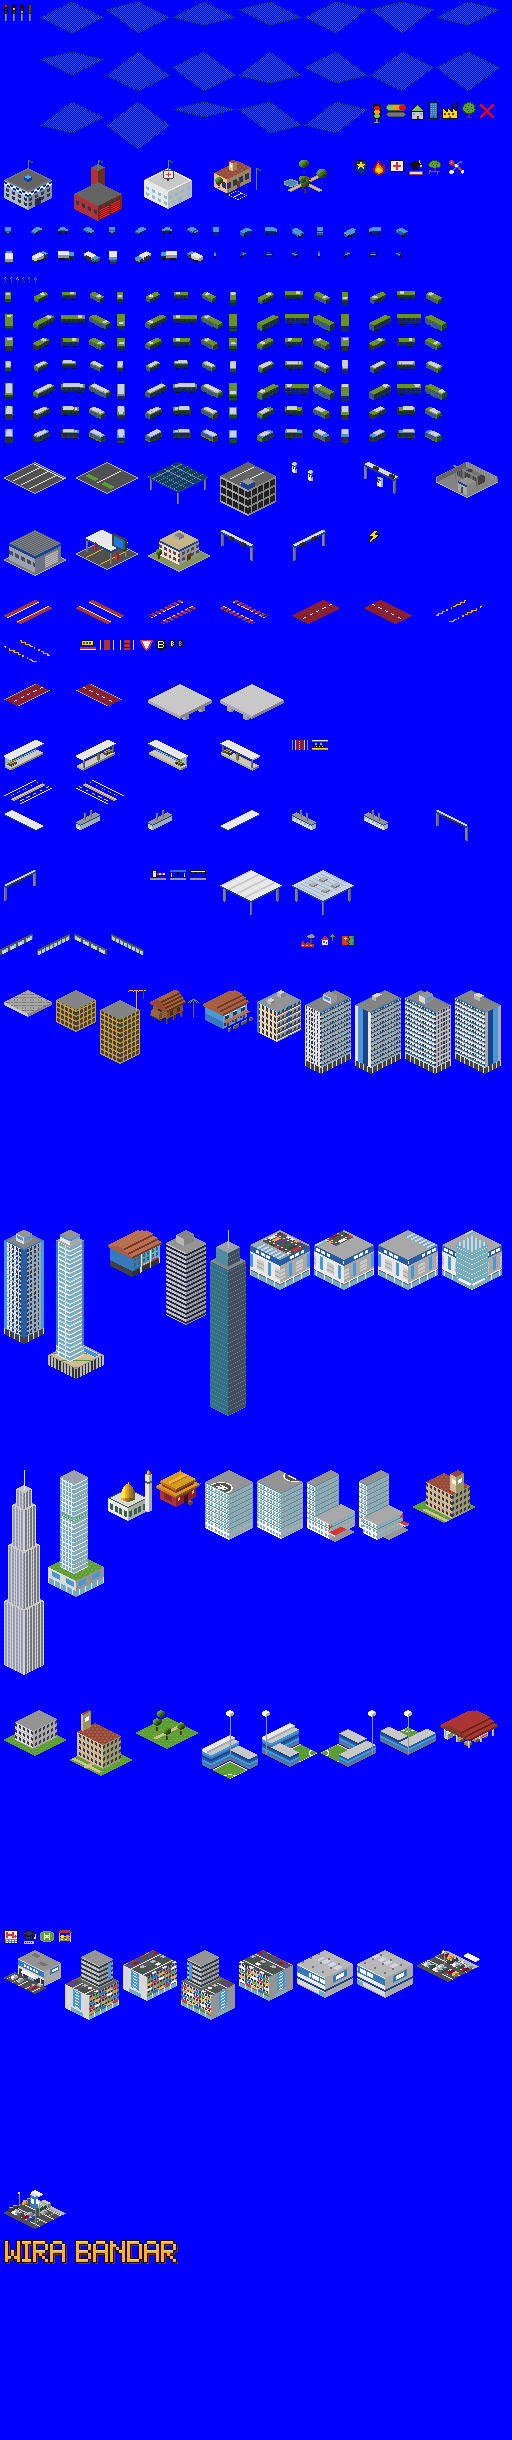
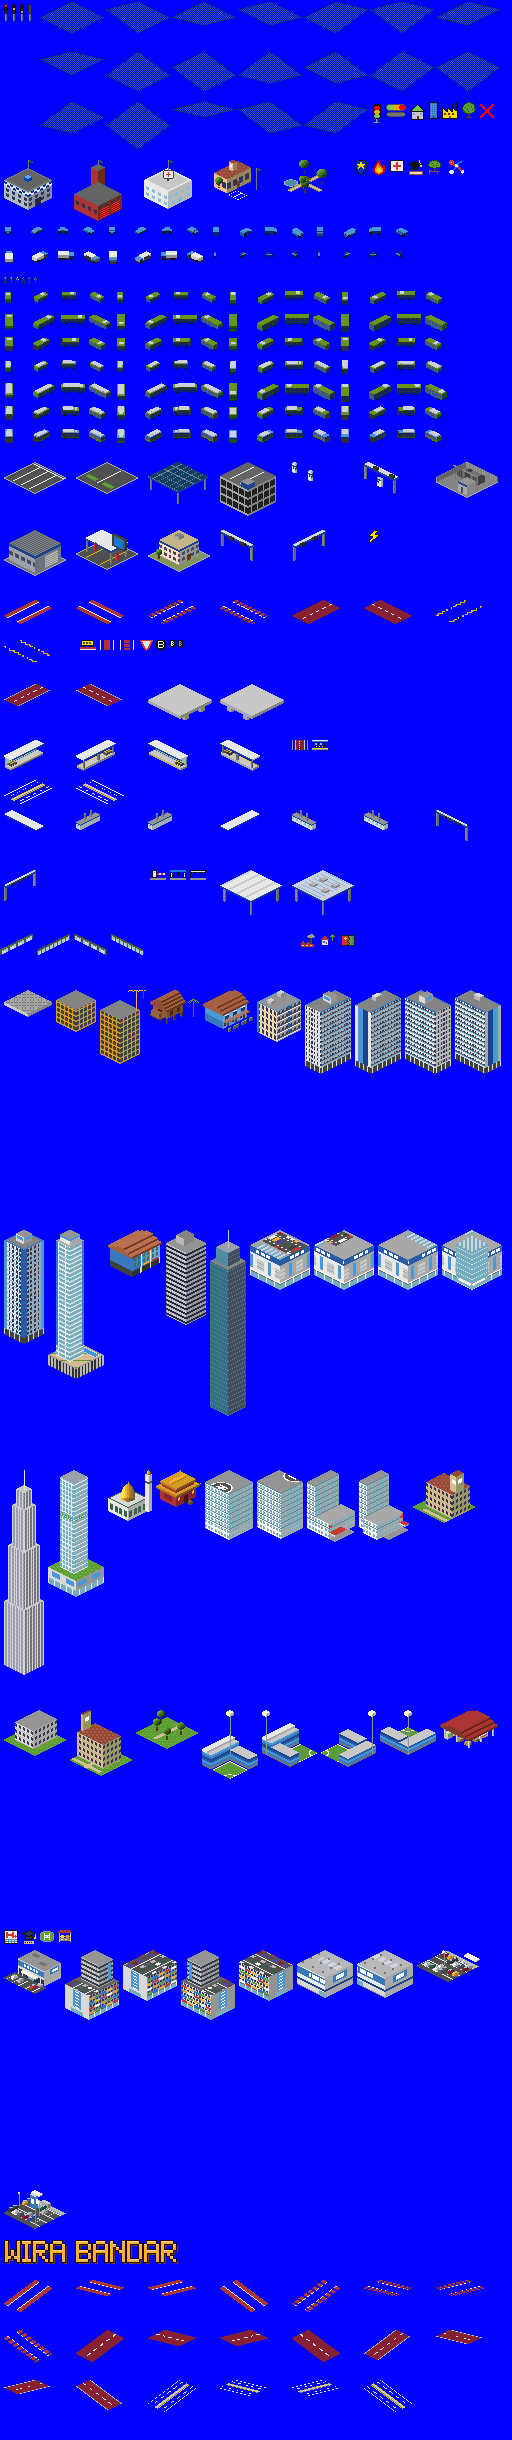
Fix: bus lanes and other road markings on slopes; tram tracks over them
- Bus lanes (all day and peak hours), bus-only roads, kerbed busways and an
  expressway's lanes and barrier were drawn on flat road only, so on a road
  up a slope they didn't show at all, though they worked. They now have
  sloped versions too: 20 new sprites (301-320 of the city graphics), one
  for each marking on SLOPE_NE, SLOPE_SE, SLOPE_SW and SLOPE_NW, drawn by
  make_city_sprites.py on the tile's sloped plane.
- The default tram track (and most tram sets') runs in the two outer lanes,
  where the bus lane paint goes, and the paint was drawn over it: tram tracks
  vanished under a bus lane, a busway, a bus-only road or expressway
  markings, on roads and through drive-through stops. The track is now drawn
  again over the markings.

Checked with a test AI on a mountainous map with a test tram NewGRF: an
all-day lane, a peak lane and a busway on sloped town roads, the same over
tram tracks (sloped and flat), and a bus-only road and an expressway up a
slope all show, with the tram rails over the paint.

diff --git a/src/bus_priority.cpp b/src/bus_priority.cpp
@@ -310,46 +310,85 @@ enum BusPrioritySprite : uint8_t {
 };
 
 /**
- * Draw bus lanes and the red of bus-only roads on a plain road tile; straight, flat roads only.
- * @param ti The tile, after its ground and road were drawn.
+ * The sprite of a marking on a straight road, flat or up a slope along it.
+ * @param marking The marking.
+ * @param flat_x Its sprite on a flat road along X; along Y follows.
+ * @param tileh The slope of the road, after its foundation.
+ * @param bits The road's pieces.
+ * @return The sprite, or 0 if the road isn't straight or doesn't run up the slope.
  */
-void DrawBusPriorityRoad(const TileInfo *ti)
+SpriteID GetRoadMarkingSprite(RoadMarking marking, SpriteID flat_x, Slope tileh, RoadBits bits)
 {
-	if (ti->tileh != SLOPE_FLAT || !IsNormalRoad(ti->tile)) return;
-	RoadBits bits = GetRoadBits(ti->tile, RoadTramType::Road);
-	if (bits != ROAD_X && bits != ROAD_Y) return;
-	const uint axis = bits == ROAD_X ? 0 : 1;
-
-	if (IsBusOnlyRoad(ti->tile)) {
-		DrawGroundSprite(SPR_BUS_PRIORITY_BASE + BPS_BUS_ROAD_X + axis, PAL_NONE);
-		return;
-	}
-	switch (GetBusLane(ti->tile)) {
-		case BusLane::AllDay: DrawGroundSprite(SPR_BUS_PRIORITY_BASE + BPS_LANE_X + axis, PAL_NONE); break;
-		case BusLane::Peak: DrawGroundSprite(SPR_BUS_PRIORITY_BASE + BPS_PEAK_X + axis, PAL_NONE); break;
-		case BusLane::Busway: DrawGroundSprite(SPR_BUSWAY_X + axis, PAL_NONE); break;
-		default: break;
+	if (bits != ROAD_X && bits != ROAD_Y) return 0;
+	const bool along_x = bits == ROAD_X;
+	const SpriteID sloped = SPR_SLOPED_ROAD_MARKINGS + to_underlying(marking) * 4;
+	switch (tileh) {
+		case SLOPE_FLAT: return flat_x + (along_x ? 0 : 1);
+		/* Roads along X climb to the north-east or the south-west, along Y to the south-east or the north-west. */
+		case SLOPE_NE: return along_x ? sloped + 0 : 0;
+		case SLOPE_SE: return along_x ? 0 : sloped + 1;
+		case SLOPE_SW: return along_x ? sloped + 2 : 0;
+		case SLOPE_NW: return along_x ? 0 : sloped + 3;
+		default: return 0;
 	}
 }
 
 /**
- * Draw bus lanes and give-way markings on a drive-through bus stop.
- * @param ti The stop tile, after its ground and road were drawn.
+ * The marking of a tile's bus lane, or of its bus-only road.
+ * @param tile The tile.
+ * @param[out] flat_x The marking's sprite on a flat road along X.
+ * @return The marking, or std::nullopt if it has none.
  */
-void DrawBusPriorityStop(const TileInfo *ti)
+static std::optional<RoadMarking> GetBusPriorityMarking(TileIndex tile, SpriteID &flat_x)
 {
-	if (ti->tileh != SLOPE_FLAT || !IsDriveThroughStopTile(ti->tile)) return;
+	if (IsBusOnlyRoad(tile)) {
+		flat_x = SPR_BUS_PRIORITY_BASE + BPS_BUS_ROAD_X;
+		return RoadMarking::BusOnlyRoad;
+	}
+	switch (GetBusLane(tile)) {
+		case BusLane::AllDay: flat_x = SPR_BUS_PRIORITY_BASE + BPS_LANE_X; return RoadMarking::BusLane;
+		case BusLane::Peak: flat_x = SPR_BUS_PRIORITY_BASE + BPS_PEAK_X; return RoadMarking::PeakBusLane;
+		case BusLane::Busway: flat_x = SPR_BUSWAY_X; return RoadMarking::Busway;
+		default: return std::nullopt;
+	}
+}
+
+/**
+ * Draw bus lanes and the red of bus-only roads on a plain road tile: straight roads, flat or up a slope.
+ * @param ti The tile, after its ground and road were drawn.
+ * @return True if a marking was drawn, over any tram track there.
+ */
+bool DrawBusPriorityRoad(const TileInfo *ti)
+{
+	if (!IsNormalRoad(ti->tile)) return false;
+	SpriteID flat_x = 0;
+	const std::optional<RoadMarking> marking = GetBusPriorityMarking(ti->tile, flat_x);
+	if (!marking.has_value()) return false;
+	const SpriteID sprite = GetRoadMarkingSprite(*marking, flat_x, ti->tileh, GetRoadBits(ti->tile, RoadTramType::Road));
+	if (sprite == 0) return false;
+	DrawGroundSprite(sprite, PAL_NONE);
+	return true;
+}
+
+/**
+ * Draw bus lanes and give-way markings on a drive-through bus stop, which is always flat.
+ * @param ti The stop tile, after its ground and road were drawn.
+ * @return True if a marking was drawn, over any tram track there.
+ */
+bool DrawBusPriorityStop(const TileInfo *ti)
+{
+	if (ti->tileh != SLOPE_FLAT || !IsDriveThroughStopTile(ti->tile)) return false;
 	const uint axis = GetDriveThroughStopAxis(ti->tile) == Axis::X ? 0 : 1;
 
-	if (IsBusOnlyRoad(ti->tile)) {
-		DrawGroundSprite(SPR_BUS_PRIORITY_BASE + BPS_BUS_ROAD_X + axis, PAL_NONE);
-	} else {
-		switch (GetBusLane(ti->tile)) {
-			case BusLane::AllDay: DrawGroundSprite(SPR_BUS_PRIORITY_BASE + BPS_LANE_X + axis, PAL_NONE); break;
-			case BusLane::Peak: DrawGroundSprite(SPR_BUS_PRIORITY_BASE + BPS_PEAK_X + axis, PAL_NONE); break;
-			case BusLane::Busway: DrawGroundSprite(SPR_BUSWAY_X + axis, PAL_NONE); break;
-			default: break;
-		}
+	bool drawn = false;
+	SpriteID flat_x = 0;
+	if (GetBusPriorityMarking(ti->tile, flat_x).has_value()) {
+		DrawGroundSprite(flat_x + axis, PAL_NONE);
+		drawn = true;
 	}
-	if (HasGiveWayStop(ti->tile)) DrawGroundSprite(SPR_BUS_PRIORITY_BASE + BPS_GIVE_WAY_X + axis, PAL_NONE);
+	if (HasGiveWayStop(ti->tile)) {
+		DrawGroundSprite(SPR_BUS_PRIORITY_BASE + BPS_GIVE_WAY_X + axis, PAL_NONE);
+		drawn = true;
+	}
+	return drawn;
 }

diff --git a/media/baseset/openttd/make_city_sprites.py b/media/baseset/openttd/make_city_sprites.py
@@ -365,6 +365,21 @@ class Building:
                 if x0 <= x < x1 and y0 <= y < y1:
                     self.set(px_, py, fn(x, y))
 
+    def ground_sloped(self, fn, slope):
+        """Paint the ground of a tile with two neighbouring corners raised one level
+        (SLOPE_NE, SLOPE_SE, SLOPE_SW or SLOPE_NW), where fn(x, y) returns a colour."""
+        # Height z = a * x + b * y + c over the tile; the N corner is (0, 0), E (0, 16), S (16, 16), W (16, 0).
+        a, b, c = {0x0C: (-0.5, 0, 8), 0x06: (0, 0.5, 0), 0x03: (0.5, 0, 0), 0x09: (0, -0.5, 8)}[slope]
+        for py in range(-10, 34):
+            for px_ in range(0, 65):
+                cx, cy = px_ + 0.5, py + 0.5
+                d = (cx - 32) / 2
+                # On screen cx = 32 + 2 * (y - x) and cy = x + y - z.
+                x = (cy - d * (1 - b) + c) / (2 - a - b)
+                y = x + d
+                if 0 <= x < 16 and 0 <= y < 16:
+                    self.set(px_, py, fn(x, y))
+
     def pole(self, x, y, z0, z1, flag=True):
         """A flag pole with a flag in company colours on top."""
         sx, sy = round(32 + 2 * (y - x)), round(x + y)
@@ -2238,6 +2253,25 @@ icon(4, 2240, logo_rows, {'F': rgb_index((252, 176, 48)), 'H': rgb_index((252, 2
                           'S': rgb_index((112, 72, 24))}, "logo wira bandar")
 
 assert len(sprites) == 301, len(sprites)
+
+# Road markings on roads up a slope: all-day bus lane, peak bus lane, bus-only road, kerbed
+# busway, expressway; each on SLOPE_NE, SLOPE_SE, SLOPE_SW, SLOPE_NW (roads along X climb
+# to the north-east or south-west, along Y to the south-east or north-west).
+SLOPED_MARKINGS = [
+    (lambda axis: lane_fn(axis, False), "bus lane"),
+    (lambda axis: lane_fn(axis, True), "peak bus lane"),
+    (bus_road_fn, "bus-only road"),
+    (busway_fn, "kerbed busway"),
+    (expressway_fn, "expressway"),
+]
+for m, (make_fn, name) in enumerate(SLOPED_MARKINGS):
+    for s, (slope, axis, slope_name) in enumerate(((0x0C, 'x', "NE"), (0x06, 'y', "SE"), (0x03, 'x', "SW"), (0x09, 'y', "NW"))):
+        k = m * 4 + s
+        b = Building()
+        b.ground_sloped(make_fn(axis), slope)
+        b.emit(4 + (k % 7) * 72, 2280 + (k // 7) * 50, f"{name} on slope {slope_name}")
+
+assert len(sprites) == 321, len(sprites)
 sheet.save(f"{SRC}/city.png", optimize=True)
 
 header = """// This file is part of OpenTTD.
@@ -2282,6 +2316,8 @@ header = """// This file is part of OpenTTD.
 //            hypermarket (four parts: (0,0), (0,1), (1,0), (1,1))
 //   299:   icon: map of states
 //   300:   the Wira Bandar wordmark of the main menu
+//   301-320: road markings on roads up a slope: all-day bus lane, peak bus lane, bus-only road, kerbed busway,
+//            expressway; each on SLOPE_NE, SLOPE_SE, SLOPE_SW, SLOPE_NW
 //
    -1 * 0\t 0C "City fork graphics"
    -1 * 5\t 05 1C FF %02X %02X

diff --git a/src/road_cmd.cpp b/src/road_cmd.cpp
@@ -1548,13 +1548,23 @@ void DrawRoadOverlays(const TileInfo *ti, PaletteID pal, const RoadTypeInfo *roa
 	}
 
 	/* Draw tram overlay */
-	if (tram_rti != nullptr) {
-		if (tram_rti->UsesOverlay()) {
-			SpriteID ground = GetCustomRoadSprite(tram_rti, ti->tile, RoadSpriteType::Overlay);
-			if (ground != 0) DrawGroundSprite(ground + tram_offset, pal);
-		} else if (road_rti != nullptr) {
-			DrawGroundSprite(SPR_TRAMWAY_OVERLAY + tram_offset, pal);
-		}
+	if (tram_rti != nullptr && (tram_rti->UsesOverlay() || road_rti != nullptr)) DrawTramOverlay(ti, pal, tram_rti, tram_offset);
+}
+
+/**
+ * Draw the tram track of a tile that has road too.
+ * @param ti TileInfo
+ * @param pal Palette to draw it in.
+ * @param tram_rti Tram road type information
+ * @param tram_offset Tram sprite offset
+ */
+void DrawTramOverlay(const TileInfo *ti, PaletteID pal, const RoadTypeInfo *tram_rti, uint tram_offset)
+{
+	if (tram_rti->UsesOverlay()) {
+		SpriteID ground = GetCustomRoadSprite(tram_rti, ti->tile, RoadSpriteType::Overlay);
+		if (ground != 0) DrawGroundSprite(ground + tram_offset, pal);
+	} else {
+		DrawGroundSprite(SPR_TRAMWAY_OVERLAY + tram_offset, pal);
 	}
 }
 
@@ -1752,10 +1762,16 @@ static void DrawRoadBits(TileInfo *ti)
 		}
 	}
 
-	/* Bus lanes and the red of bus-only roads; the lanes and barrier of expressways. */
+	/* Bus lanes and the red of bus-only roads; the lanes and barrier of expressways. Tram tracks run
+	 * in the outer lanes, where the paint goes: draw them again over it. */
 	if (!HasRoadWorks(ti->tile)) {
-		DrawBusPriorityRoad(ti);
-		DrawExpressway(ti);
+		bool painted = DrawBusPriorityRoad(ti);
+		painted |= DrawExpressway(ti);
+		if (painted && tram_rti != nullptr && road_rti != nullptr) {
+			PaletteID pal = PAL_NONE;
+			GetRoadGroundSprite(ti, GetRoadside(ti->tile), road_rti, 0, IsOnSnowOrDesert(ti->tile), &pal);
+			DrawTramOverlay(ti, pal, tram_rti, GetRoadSpriteOffset(ti->tileh, tram));
+		}
 	}
 
 	DrawRoadTrafficOverlay(ti);

diff --git a/src/road_pricing.cpp b/src/road_pricing.cpp
@@ -24,6 +24,7 @@
 #include "stdafx.h"
 #include "road_pricing.h"
 #include "road_pricing_cmd.h"
+#include "bus_priority.h"
 #include "cargotype.h"
 #include "command_func.h"
 #include "company_base.h"
@@ -94,15 +95,17 @@ bool IsExpresswayRoad(TileIndex tile)
 }
 
 /**
- * Draw the lanes and the barrier in the middle of an expressway; straight, flat roads only.
+ * Draw the lanes and the barrier in the middle of an expressway: straight roads, flat or up a slope.
  * @param ti The tile, after its ground and road were drawn.
+ * @return True if they were drawn, over any tram track there.
  */
-void DrawExpressway(const TileInfo *ti)
+bool DrawExpressway(const TileInfo *ti)
 {
-	if (ti->tileh != SLOPE_FLAT || !IsNormalRoad(ti->tile) || GetRoadTypeRoad(ti->tile) != ROADTYPE_EXPRESSWAY) return;
-	RoadBits bits = GetRoadBits(ti->tile, RoadTramType::Road);
-	if (bits != ROAD_X && bits != ROAD_Y) return;
-	DrawGroundSprite(SPR_EXPRESSWAY_X + (bits == ROAD_X ? 0 : 1), PAL_NONE);
+	if (!IsNormalRoad(ti->tile) || GetRoadTypeRoad(ti->tile) != ROADTYPE_EXPRESSWAY) return false;
+	const SpriteID sprite = GetRoadMarkingSprite(RoadMarking::Expressway, SPR_EXPRESSWAY_X, ti->tileh, GetRoadBits(ti->tile, RoadTramType::Road));
+	if (sprite == 0) return false;
+	DrawGroundSprite(sprite, PAL_NONE);
+	return true;
 }
 
 /* Toll plazas. */

diff --git a/src/bus_priority.h b/src/bus_priority.h
@@ -11,6 +11,9 @@
 #define BUS_PRIORITY_H
 
 #include "economy_type.h"
+#include "gfx_type.h"
+#include "road_type.h"
+#include "slope_type.h"
 #include "tile_type.h"
 
 struct TileInfo;
@@ -25,6 +28,17 @@ enum class BusLane : uint8_t {
 	End, ///< End marker.
 };
 
+/** Markings painted on a road, which come for roads up a slope too (see #SPR_SLOPED_ROAD_MARKINGS). */
+enum class RoadMarking : uint8_t {
+	BusLane, ///< An all-day bus lane.
+	PeakBusLane, ///< A bus lane for the peak hours.
+	BusOnlyRoad, ///< The red of a bus-only road.
+	Busway, ///< A kerbed busway.
+	Expressway, ///< The lanes and barrier of an expressway.
+};
+
+SpriteID GetRoadMarkingSprite(RoadMarking marking, SpriteID flat_x, Slope tileh, RoadBits bits);
+
 BusLane GetBusLane(TileIndex tile);
 bool HasGiveWayStop(TileIndex tile);
 bool IsBusOnlyRoad(TileIndex tile);
@@ -35,8 +49,8 @@ uint8_t GetCongestionLevelFor(TileIndex tile, bool bus);
 Money GetBusLaneCost(BusLane lane);
 Money GetGiveWayStopCost();
 
-void DrawBusPriorityRoad(const TileInfo *ti);
-void DrawBusPriorityStop(const TileInfo *ti);
+bool DrawBusPriorityRoad(const TileInfo *ti);
+bool DrawBusPriorityStop(const TileInfo *ti);
 void OnBusPriorityTileCleared(TileIndex tile);
 void RestoreBusLane(TileIndex tile, BusLane lane);
 void InitializeBusPriority();

diff --git a/src/station_cmd.cpp b/src/station_cmd.cpp
@@ -3526,8 +3526,10 @@ static void DrawTile_Station(TileInfo *ti)
 		total_offset = 0;
 	}
 
-	/* Bus lanes, bus-only roads and give-way markings on the road through the stop. */
-	if (IsDriveThroughStopTile(ti->tile)) DrawBusPriorityStop(ti);
+	/* Bus lanes, bus-only roads and give-way markings on the road through the stop, and its tram track over them. */
+	if (IsDriveThroughStopTile(ti->tile) && DrawBusPriorityStop(ti) && HasTileRoadType(ti->tile, RoadTramType::Tram) && HasTileRoadType(ti->tile, RoadTramType::Road)) {
+		DrawTramOverlay(ti, PAL_NONE, GetRoadTypeInfo(GetRoadTypeTram(ti->tile)), GetDriveThroughStopAxis(ti->tile) == Axis::X ? 1 : 0);
+	}
 	/* A BRT station's platforms take the place of the stop's shelters. */
 	if (!IsDriveThroughStopTile(ti->tile) || !DrawBrtStation(ti)) DrawRailTileSeq(ti, t, TransparencyOption::Buildings, total_offset, relocation, palette);
 	/* Platform screen doors along the railway platforms. */

diff --git a/src/table/sprites.h b/src/table/sprites.h
@@ -434,7 +434,8 @@ static constexpr SpriteID SPR_IMG_CIVIC_SERVICE_BASE = SPR_TRAFFIC_LIGHTS_BASE +
 /* Shops (city_houses.cpp) follow at +290, drawn as town buildings from SPR_CITY_HOUSE_BASE (sprite 37 on). */
 static constexpr SpriteID SPR_IMG_STATES_MAP = SPR_TRAFFIC_LIGHTS_BASE + 299; ///< Icon of the map of states.
 static constexpr SpriteID SPR_WIRA_BANDAR_LOGO = SPR_TRAFFIC_LIGHTS_BASE + 300; ///< The Wira Bandar wordmark of the main menu.
-static constexpr uint16_t TRAFFIC_LIGHTS_SPRITE_COUNT = 301;
+static constexpr SpriteID SPR_SLOPED_ROAD_MARKINGS = SPR_TRAFFIC_LIGHTS_BASE + 301; ///< Road markings on roads up a slope, by #RoadMarking: each on SLOPE_NE, SLOPE_SE, SLOPE_SW and SLOPE_NW (20 sprites).
+static constexpr uint16_t TRAFFIC_LIGHTS_SPRITE_COUNT = 321;
 
 static const SpriteID SPR_NEWGRFS_BASE = SPR_TRAFFIC_LIGHTS_BASE + TRAFFIC_LIGHTS_SPRITE_COUNT;
 

diff --git a/src/road_func.h b/src/road_func.h
@@ -146,6 +146,7 @@ bool UpdateNearestTownForRoadTiles(bool invalidate);
 struct TileInfo;
 enum class Roadside : uint8_t;
 void DrawRoadOverlays(const TileInfo *ti, PaletteID pal, const RoadTypeInfo *road_rti, const RoadTypeInfo *tram_rit, uint road_offset, uint tram_offset, bool draw_underlay = true);
+void DrawTramOverlay(const TileInfo *ti, PaletteID pal, const RoadTypeInfo *tram_rti, uint tram_offset);
 void DrawRoadGroundSprites(const TileInfo *ti, RoadBits road, RoadBits tram, const RoadTypeInfo *road_rti, const RoadTypeInfo *tram_rti, Roadside roadside, bool snow_or_desert);
 void DrawRoadDepotSprite(int x, int y, DiagDirection dir, RoadType rt);
 

diff --git a/src/road_pricing.h b/src/road_pricing.h
@@ -40,7 +40,7 @@ static constexpr uint8_t TOLL_MAX_CUT = 54; ///< Toll cuts from extensions stop 
 static constexpr uint TOLL_FREEZE_YEARS = 5; ///< How long a toll freeze lasts.
 
 bool IsExpresswayRoad(TileIndex tile);
-void DrawExpressway(const TileInfo *ti);
+bool DrawExpressway(const TileInfo *ti);
 
 TollPlaza *GetTollPlaza(TileIndex tile);
 /**
